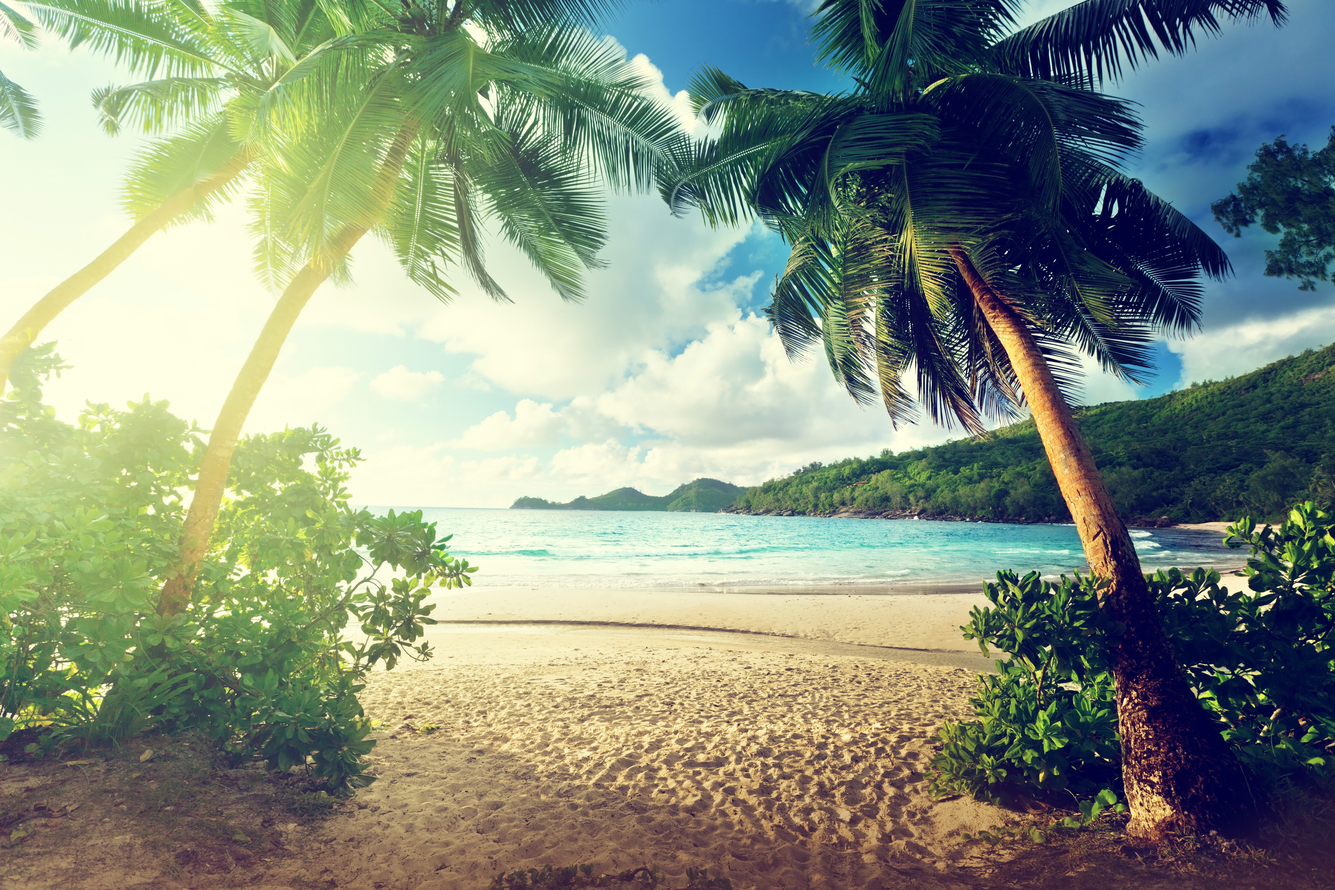
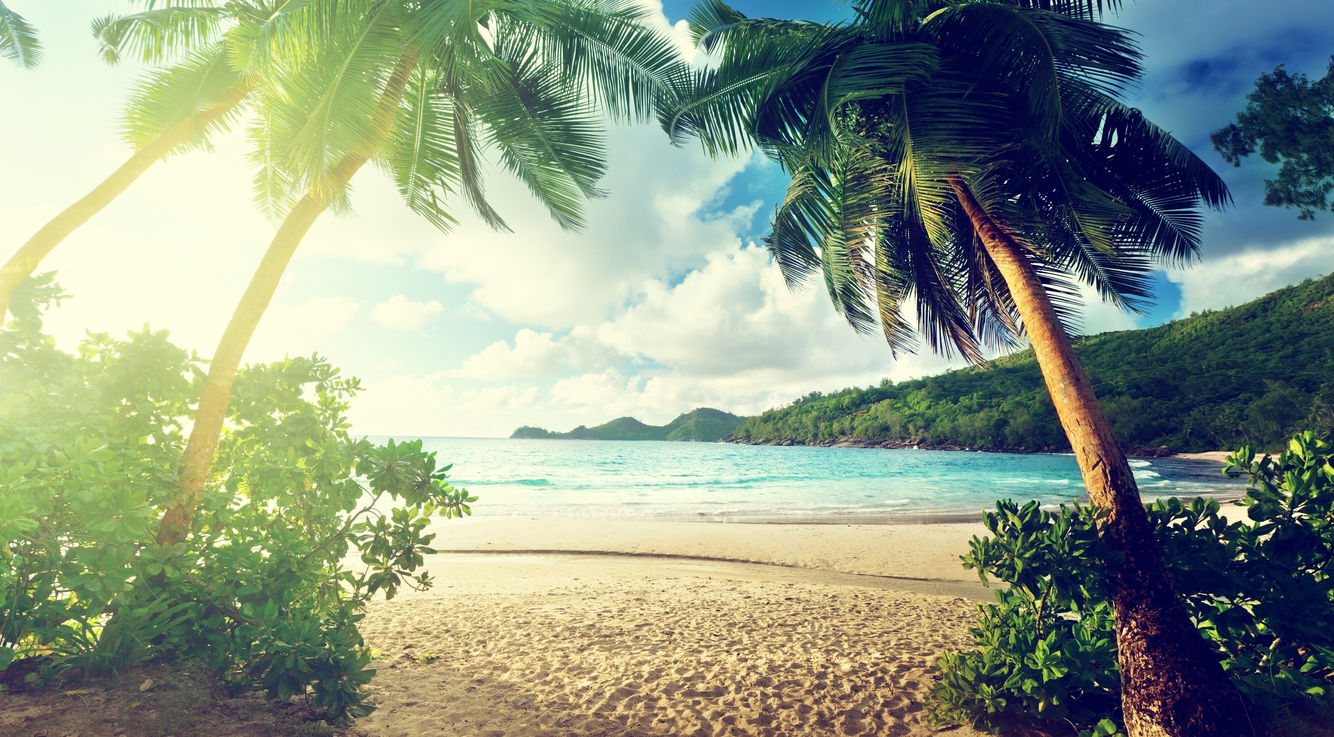
Navbar, Home, Footer improvements

diff --git a/base-project/frontend/src/container/Home/Search/Search.style.js b/base-project/frontend/src/container/Home/Search/Search.style.js
@@ -29,6 +29,7 @@ const BannerWrapper = styled.div`
       width: 100%;
       height: 100%;
       object-fit: cover;
+      object-position: 55%;
     }
   }
 
@@ -81,13 +82,13 @@ export const SearchWrapper = styled.div`
   background-color: transparent;
   // box-shadow: 0 1px 20px rgba(0, 0, 0, 0.08);
   position: absolute;
-  top: 120px;
+  top: 8em;
   z-index: 1;
 
-  @media (min-width: 569px) and (max-width: 991px) {
-    width: 414px;
-    left: 30px;
-  }
+  // @media (min-width: 569px) and (max-width: 991px) {
+  //   width: 414px;
+  //   left: 30px;
+  // }
 
   @media (max-width: 480px) {
     width: calc(100% - 30px);
@@ -119,13 +120,24 @@ export const SearchWrapper = styled.div`
   
   .flexible > .ant-btn {
     min-width: 200px;
-    color: ${themeGet('color.4', '#ffffff')};
+    min-height: 60px;
     background-color: ${themeGet('color.1', '#008489')};
     z-index: 1;
     border-radius: 35px;
-    border: 0;
-    font-size: 20px;
+    box-shadow: 0 0 5px #fff;
+    border: 1px;
+    font-size: 25px;
     font-weight: 700;
+  }
+  
+  .flexible > button div {
+    background-image: linear-gradient(45deg, #004f52, #02f1fa);
+    background-size: 100%;
+    background-repeat: repeat;
+    -webkit-background-clip: text;
+    -webkit-text-fill-color: transparent; 
+    -moz-background-clip: text;
+    -moz-text-fill-color: transparent;
   }
 `;
 
@@ -144,6 +156,11 @@ export const FormWrapper = styled.div`
 
   @media (max-width: 480px) {
     margin-top: 10px;
+  }
+  
+  @media (min-width: 569px) and (max-width: 991px) {
+    margin: 0 auto 0 auto;
+    width: 414px;
   }
 
   /* submit button style */

diff --git a/base-project/frontend/src/container/Layout/Header/Header.style.js b/base-project/frontend/src/container/Layout/Header/Header.style.js
@@ -36,11 +36,13 @@ const HeaderWrapper = styled.header`
           a {
             img {
               opacity: 1;
-            }
+            }     
 
             h3 {
-              color: ${themeGet('primary.0', '#ffffff')};
+              color: ${themeGet('primary.2', '#ffffff')};
+              text-shadow: 2.5px 2.5px ${themeGet('primary.0', '#ffffff')};
             }
+            text-shadow: 1px 1px ${themeGet('primary.0', '#ffffff')};
           }
         }
 
@@ -71,8 +73,10 @@ const HeaderWrapper = styled.header`
             }
 
             h3 {
-              color: ${themeGet('primary.0', '#ffffff')};
+              color: ${themeGet('primary.2', '#ffffff')};
+              text-shadow: 2.5px 2.5px ${themeGet('primary.1', '#ffffff')};
             }
+            text-shadow: none;
           }
         }
       }
@@ -89,14 +93,16 @@ const HeaderWrapper = styled.header`
               display: none;
             }
 
-            a {
+            a {    
               img {
                 opacity: 1;
               }
 
               h3 {
                 color: ${themeGet('primary.0', '#008489')};
+                text-shadow: none;
               }
+              text-shadow: none;
             }
           }
 
@@ -144,7 +150,9 @@ const HeaderWrapper = styled.header`
 
               h3 {
                 color: ${themeGet('primary.0', '#008489')};
+                text-shadow: none;
               }
+              text-shadow: none;
             }
           }
 

diff --git a/base-project/frontend/src/components/Footer/Footer.style.js b/base-project/frontend/src/components/Footer/Footer.style.js
@@ -4,16 +4,21 @@ import footerBg from './footer-bg.svg';
 
 const FooterWrapper = styled.footer`
   width: 100%;
-  background-color: ${themeGet('color.1', '#ffffff')};
-  background-image: url(${(props) => (props.bgSrc ? props.bgSrc : footerBg)});
-  background-repeat: no-repeat;
-  background-position: bottom;
-  background-size: 100%;
-  padding: 47px 0 66px;
+  // background-color: ${themeGet('color.1', '#ffffff')};
+  // background-image: url(${(props) => (props.bgSrc ? props.bgSrc : footerBg)});
+  // background-repeat: no-repeat;
+  // background-position: bottom;
+  // background-size: 100%;
+  background-color: whitesmoke;
+  padding: 4px 0 30px;
   display: flex;
   flex-direction: column;
   align-items: center;
   justify-content: center;
+  
+  img {
+    width: 160px;
+  }
 
   @media (max-width: 480px) {
     padding: 60px 0 50px;
@@ -21,7 +26,7 @@ const FooterWrapper = styled.footer`
 `;
 
 export const MenuWrapper = styled.div`
-  margin-top: 40px;
+  margin-top: 20px;
   padding-left: 10px;
 
   @media (max-width: 480px) {

diff --git a/base-project/frontend/src/components/Navbar/Navbar.js b/base-project/frontend/src/components/Navbar/Navbar.js
@@ -29,11 +29,15 @@ const Navbar = ({
                 {logo || searchVisibility ? (
                     <LogoArea>
                         {logo}
-                        {!searchVisibility && location.pathname === '/'
-                            ? null
-                            : searchComponent}
+                        <div className={"nav-search"}>
+                            {!searchVisibility && location.pathname === '/'
+                                ? null
+                                : searchComponent}
+                        </div>
+
                     </LogoArea>
                 ) : null}
+
                 <MenuArea>
                     {navMenu && (
                         <MenuWrapper className="main_menu">{navMenu}</MenuWrapper>

diff --git a/base-project/frontend/src/service/CrudApi.js b/base-project/frontend/src/service/CrudApi.js
@@ -3,19 +3,19 @@ import BaseApi from "./BaseApi";
 class CrudApi extends BaseApi {
 
     async create(createRequest) {
-        return await this.axios.post(this.PATH_BASE, createRequest);
+        return await this.axios.post(createRequest);
     }
 
     async read(id) {
-        return this.axios.axios.get(this.PATH_BASE + `/${id}`)
+        return this.axios.axios.get(`/${id}`)
     }
 
     async update(updateRequest) {
-        return await this.axios.put(this.PATH_BASE, updateRequest)
+        return await this.axios.put(updateRequest)
     }
 
     async delete(id) {
-        return await this.axios.delete(this.PATH_BASE + `/${id}`)
+        return await this.axios.delete(`/${id}`)
     }
 
 }

diff --git a/base-project/frontend/src/container/Home/Search/Search.js b/base-project/frontend/src/container/Home/Search/Search.js
@@ -55,11 +55,12 @@ const SearchArea = ({searchTitleStyle, searchDescriptionStyle, history}) => {
                         <Button
                             type="primary"
                             htmlType="submit"
-                            href={"/listing"}
                             shape={"circle"}
                             size={"large"}
                         >
-                            I'm flexible
+                            <div>
+                                I'm flexible
+                            </div>
                         </Button>
                     </div>
                 </SearchWrapper>

diff --git a/base-project/frontend/src/container/Home/Home.js b/base-project/frontend/src/container/Home/Home.js
@@ -4,10 +4,6 @@ import SearchArea from './Search/Search';
 import LocationGrid from './Location/Location';
 import {LayoutContext} from 'context/LayoutProvider';
 import {Waypoint} from 'react-waypoint';
-import {Button} from "antd";
-import UserApi from "../../service/user/api/UserApi";
-import user from "../../service/user/object/user.json"
-import TestView from "../../service/test/TestView";
 
 const Home = () => {
     const [, dispatch] = useContext(LayoutContext);

diff --git a/base-project/frontend/src/container/Layout/Footer/Footer.js b/base-project/frontend/src/container/Layout/Footer/Footer.js
@@ -11,11 +11,11 @@ const Footer = () => {
                     withLink
                     linkTo="/"
                     src="/images/logo-alt.png"
-                    title="Upislands"
+                    title=""
                 />
             }
             menu={<FooterMenu/>}
-            copyright={`Copyright @ ${new Date().getFullYear()} RedQ, Inc.`}
+            copyright={`Copyright @ ${new Date().getFullYear()} GeniesSoft`}
         />
     );
 };

diff --git a/base-project/frontend/src/components/Navbar/Navbar.style.js b/base-project/frontend/src/components/Navbar/Navbar.style.js
@@ -46,6 +46,7 @@ const NavbarWrapper = styled.nav`
       }
     }
   }
+  
 `;
 
 export const Container = styled.div`
@@ -175,7 +176,7 @@ export const MenuWrapper = styled.div`
       font-weight: 400;
       transition: color 0.2s ease-in-out;
       @media (max-width: 1200px) {
-        margin: 0 10px;
+        margin: 0 1px;
       }
       &:first-child {
         margin-left: 0;

diff --git a/base-project/frontend/src/App.js b/base-project/frontend/src/App.js
@@ -6,10 +6,12 @@ import {BrowserRouter} from "react-router-dom";
 import AuthProvider from "./context/AuthProvider";
 import Routes from "./router";
 import React from "react";
+import TestView from "./service/test/TestView";
 
 function App() {
 
     return (
+        // <TestView />
         <ThemeProvider theme={theme}>
             <GlobalStyles/>
             <BrowserRouter>

diff --git a/base-project/frontend/src/service/location/LocationApi.js b/base-project/frontend/src/service/location/LocationApi.js
@@ -1,0 +1,15 @@
+import CrudApi from "../CrudApi";
+import axios from "axios";
+import {API_BASE_URL} from "../../constants";
+
+class LocationApi extends CrudApi {
+
+}
+
+export default new LocationApi(
+    axios.create(
+        {
+            baseURL: API_BASE_URL,
+            url: "/locations"
+        }
+    ));

diff --git a/base-project/frontend/src/service/user/UserApi.js b/base-project/frontend/src/service/user/UserApi.js
@@ -1,0 +1,15 @@
+import CrudApi from "../CrudApi";
+import axios from "axios";
+import {API_BASE_URL} from "../../constants";
+
+class UserApi extends CrudApi {
+
+}
+
+export default new UserApi(
+    axios.create(
+        {
+            baseURL: API_BASE_URL,
+            url: "/users"
+        }
+    ));
